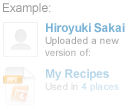
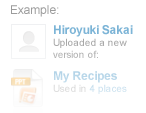
SAKIII-3165 Fix spacing issue in recent activity widget

diff --git a/devwidgets/recentactivity/css/recentactivity.css b/devwidgets/recentactivity/css/recentactivity.css
@@ -38,5 +38,5 @@
 .recentactivity_widget .s3d-no-results-container {margin:30px 20px 10px;}
 .recentactivity_widget .s3d-no-results-container .s3d-regular-links {display:block;}
 .recentactivity_widget .s3d-no-results-container .s3d-no-results-icon {float:none;clear:both;}
-.recentactivity_widget .s3d-no-results-container #recentactivity_noresults_example {background:url("/devwidgets/recentactivity/images/recentactivity_noresults_example.png") no-repeat top left transparent;width:129px;height:109px;margin-top:10px;}
+.recentactivity_widget #recentactivity_noresults_example {background:url("/devwidgets/recentactivity/images/recentactivity_noresults_example.png") no-repeat top left transparent;width:146px;height:113px;margin:10px 0 0 12px;}
 .recentactivity_widget .s3d-no-results-container .s3d-split-line {margin:0 -20px;}

diff --git a/devwidgets/recentactivity/recentactivity.html b/devwidgets/recentactivity/recentactivity.html
@@ -60,9 +60,8 @@
                     <a href="/dev/createnew.html" title="__MSG__ADD_CONTENT__" class="s3d-regular-links">__MSG__ADD_CONTENT__</a>
                 </h1>
             {/if}
-            <hr class="s3d-split-line"/>
-            <div id="recentactivity_noresults_example"></div>
         </div>
+        <div id="recentactivity_noresults_example"></div>
     {/if}
     <div id="recentactivity_footer"></div>
 --></div>
